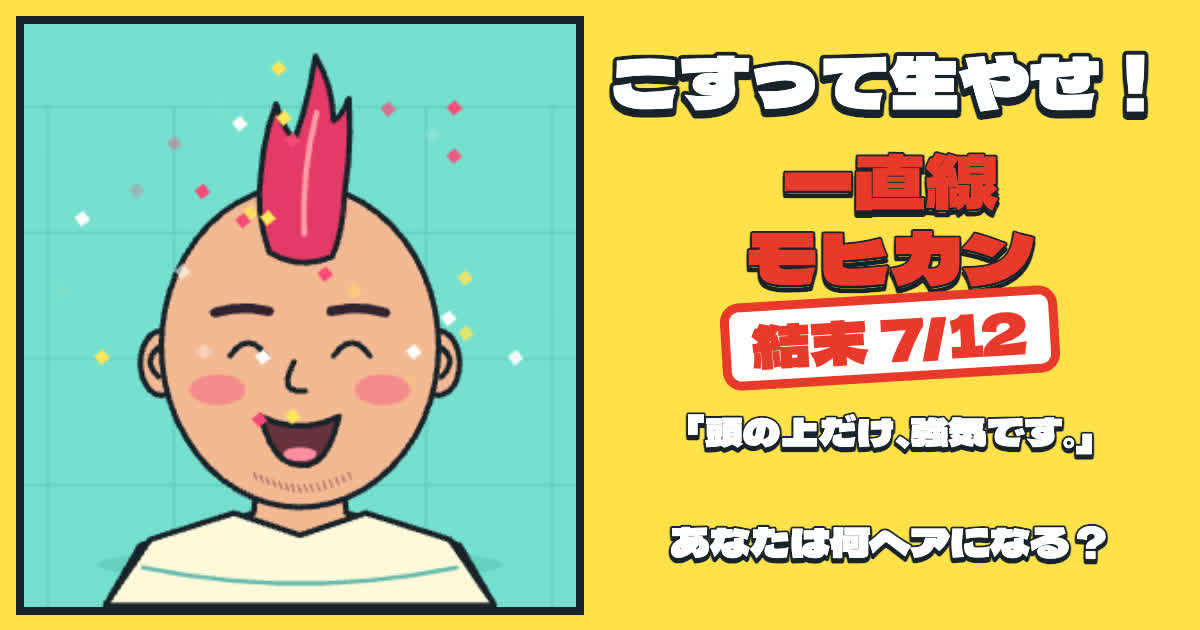
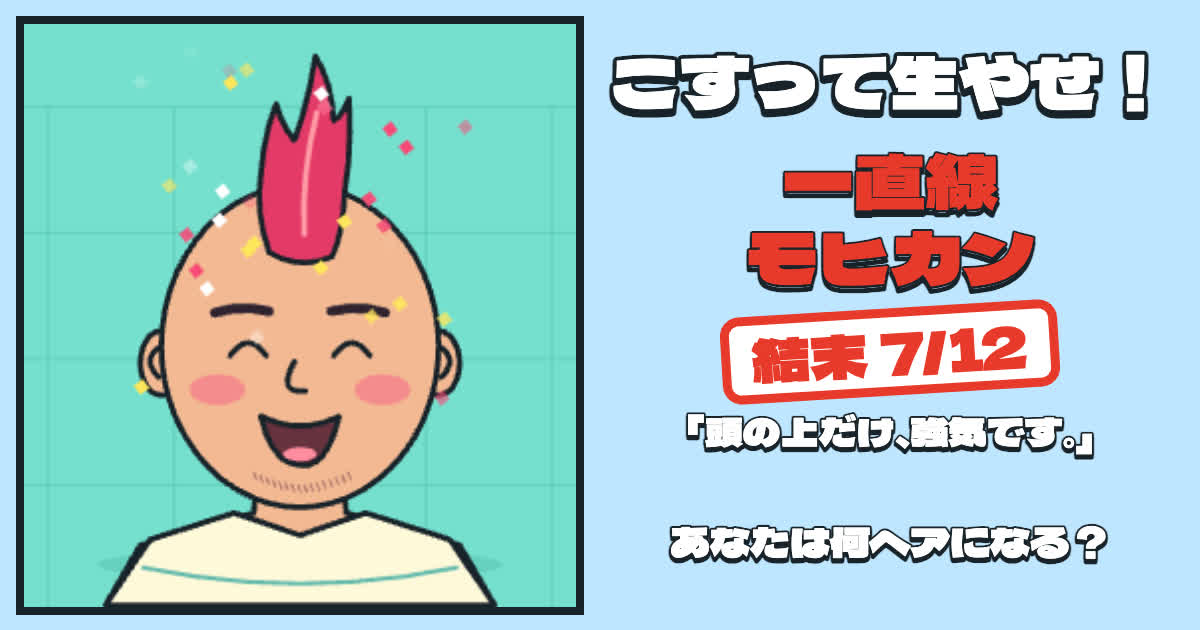
こすって生やせ！: hair count score, soap-blue cards, bubble under his chin, countdown on his forehead

diff --git a/mini-games/shampoo/index.html b/mini-games/shampoo/index.html
@@ -61,6 +61,8 @@ button:disabled{background:#354c4c;color:#fff;cursor:wait;box-shadow:none}
 #result .label{font-size:14px;font-weight:800;line-height:1.4;color:#54616b}
 #style-name{font-size:26px;color:var(--ink);margin:2px 0;-webkit-text-stroke:0;text-shadow:none;white-space:nowrap}
 #verdict{font-size:14px;font-weight:800;line-height:1.4;margin:0 0 4px}
+#count{font-family:"Dela Gothic One","Hiragino Sans",system-ui,sans-serif;font-size:30px;line-height:1.1;margin:0 0 2px;color:var(--pink)}
+#count small{display:block;font-family:"M PLUS Rounded 1c","Hiragino Sans",system-ui,sans-serif;font-weight:800;font-size:13px;color:#54616b;margin-top:2px}
 #collection{font-size:14px;font-weight:800;line-height:1.4;margin:0 0 4px}
 #style-hint{font-size:13px;font-weight:700;line-height:1.4;margin:4px 0 0;color:#54616b}
 .actions{display:flex;justify-content:center;gap:6px;margin-top:6px}
@@ -98,7 +100,7 @@ button:disabled{background:#354c4c;color:#fff;cursor:wait;box-shadow:none}
   <div id="dialogue">
   <div id="bubble" role="status" aria-live="polite"><svg id="bubble-outline" viewBox="0 0 360 56" preserveAspectRatio="none" aria-hidden="true"><path d="M20 0 H166 L180 -18 L194 0 H340 Q360 0 360 20 V36 Q360 56 340 56 H20 Q0 56 0 36 V20 Q0 0 20 0 Z" fill="#fff" stroke="#19222a" stroke-width="3" stroke-linejoin="round" vector-effect="non-scaling-stroke"/></svg><span id="bubble-text">薄井です。まだ、あきらめてません。</span></div>
   <section id="home"><div id="home-instructions"><p class="lead">10秒こすって、毛よ来い！</p><p class="sub">頭を押したままゴシゴシ。<br>こすり方で、まさかの髪型に！？</p></div><button id="go">シャンプーする</button><div class="credit">制作 <a href="https://lys-games.github.io/" target="_blank" rel="noopener">Lys Games</a> · <a class="steam" href="https://store.steampowered.com/app/5398160/?utm_source=lysgames&amp;utm_medium=web&amp;utm_campaign=shampoo" target="_blank" rel="noopener">『Gopher It』Steamで発売中</a></div><div class="voice-credit">音声 VOICEVOX:雀松朱司 / VOICEVOX:ナースロボ＿タイプＴ</div></section>
-  <section id="result" aria-label="シャンプーの結果" hidden><div class="label">本日の薄井さん</div><h2 id="style-name" class="t"></h2><p id="verdict"></p><p id="collection"></p><div class="actions"><button id="again">もう一回</button><a id="share" class="btn alt" target="_blank" rel="noopener">Xでポスト</a><button id="save" class="alt">画像を保存</button></div><p id="style-hint"></p><p id="tip" role="status"></p><div class="credit">制作 <a href="https://lys-games.github.io/" target="_blank" rel="noopener">Lys Games</a> · <a class="steam" href="https://store.steampowered.com/app/5398160/?utm_source=lysgames&amp;utm_medium=web&amp;utm_campaign=shampoo" target="_blank" rel="noopener">『Gopher It』Steamで発売中</a></div><div class="voice-credit">音声 VOICEVOX:雀松朱司 / VOICEVOX:ナースロボ＿タイプＴ</div></section>
+  <section id="result" aria-label="シャンプーの結果" hidden><div class="label">本日の薄井さん</div><h2 id="style-name" class="t"></h2><p id="count"><span id="count-n">0</span>本<small id="best"></small></p><p id="verdict"></p><p id="collection"></p><div class="actions"><button id="again">もう一回</button><a id="share" class="btn alt" target="_blank" rel="noopener">Xでポスト</a><button id="save" class="alt">画像を保存</button></div><p id="style-hint"></p><p id="tip" role="status"></p><div class="credit">制作 <a href="https://lys-games.github.io/" target="_blank" rel="noopener">Lys Games</a> · <a class="steam" href="https://store.steampowered.com/app/5398160/?utm_source=lysgames&amp;utm_medium=web&amp;utm_campaign=shampoo" target="_blank" rel="noopener">『Gopher It』Steamで発売中</a></div><div class="voice-credit">音声 VOICEVOX:雀松朱司 / VOICEVOX:ナースロボ＿タイプＴ</div></section>
   </div>
 </div>
 <div id="paused" hidden>ひと休み中</div>
@@ -229,6 +231,11 @@ let state='home', generation=0, deadline=0, hasStarted=false, pointer=null, hidd
 let stats, lather=[], foam=[], sparks=[], result=null, rinseAt=0, revealAt=0, lastFrame=0, rubAt=-1000, sfxAt=0, reactionAt=0, reactionIndex=0, idleStage=-1;
 let collection=new Set();
 try { collection=new Set(JSON.parse(localStorage.getItem('shampoo.collection')||'[]').filter(id=>styleById(id))); } catch (_) {}
+// A full head is about 100,000 hairs: the afro threshold (7,500 power) lands there.
+const HAIRS_PER_POWER=100000/7500;
+const hairCount=()=>Math.round((stats.distance+stats.chin)*HAIRS_PER_POWER);
+const fmtHairs=n=>n.toLocaleString('ja-JP');
+let best=null; try { const b=Number(localStorage.getItem('shampoo.best')); if(b>0)best=b; } catch (_) {}
 function resetStats() { stats={distance:0,chin:0,total:0,left:0,right:0,center:0,dx:0,dy:0,zones:0}; }
 resetStats(); resize(); addEventListener('resize',resize);
 const layoutObserver=new ResizeObserver(resize);
@@ -297,6 +304,11 @@ function updateMood(now) {
   if(stage!==idleStage) {idleStage=stage;if(stage>=0){const line=IDLE_LINES[stage];bubble(line.text);voice('man',line.id);}}
 }
 function liveMood(now) { return now-rubAt<800?(stats.total?'rub':'hope'):IDLE_LINES[Math.max(0,idleStage)].mood; }
+function countUp(n,g) {
+  const el=$('count-n'), t0=performance.now(), ms=REDUCED?0:900;
+  const tick=now=>{if(g!==generation)return;const k=ms?Math.min(1,(now-t0)/ms):1;el.textContent=fmtHairs(Math.round(n*(1-(1-k)**3)));if(k<1)requestAnimationFrame(tick);};
+  requestAnimationFrame(tick);
+}
 async function finish(forced) {
   if(state!=='play')return;
   const g=generation; state='stop'; pointer=null; result=forced||chooseStyle(); stopVoices();
@@ -317,11 +329,15 @@ async function finish(forced) {
   const isNew=!collection.has(result.id); if(!CARD_MODE){collection.add(result.id);try{localStorage.setItem('shampoo.collection',JSON.stringify([...collection]));}catch(_){}}
   $('collection').textContent=(isNew&&!CARD_MODE?'初めての結末！ ':'')+`発見 ${collection.size} / ${STYLES.length} 種`;
   $('style-hint').textContent=result.hint;
+  const hairs=CARD_MODE?0:hairCount(), newBest=!CARD_MODE&&hairs>0&&(best===null||hairs>best);
+  if(newBest){best=hairs;try{localStorage.setItem('shampoo.best',String(hairs));}catch(_){}}
+  $('best').textContent=newBest?'新記録！':best?`自己ベスト ${fmtHairs(best)}本`:'';
+  countUp(hairs,g);
   if(!CARD_MODE)show('result',true);
-  shareText=`薄井さん「${result.line}」\n10秒シャンプーしたら【${result.name}】\nあなたは何ヘア？ #こすって生やせ`;
+  shareText=`薄井さん「${result.line}」\n10秒シャンプーで${fmtHairs(hairs)}本生やした【${result.name}】\nあなたは何本？ #こすって生やせ`;
   $('share').href='https://x.com/intent/post?text='+encodeURIComponent(shareText)+'&url='+encodeURIComponent(URL_PUBLIC+'card/'+result.id+'.html');
   if(CARD_MODE){resize();draw(performance.now(),0);showPicture(await drawShareImage({style:result}));return;}
-  prepareShare({style:result},g);
+  prepareShare({style:result,hairs},g);
 }
 
 /* Each accepted segment is clipped to the head ellipse. Lifts and travel outside
@@ -557,12 +573,12 @@ function frame(now) {
 
 /* ---------- share picture ---------- */
 // The framed picture is a crop of the live scene, including his actual ending.
-async function drawShareImage({ style, card }) {
-  await document.fonts?.load(`60px ${DISPLAY_FONT}`, 'こすって生やせ！何ヘアになる？10秒で毛よ、来い！こするほど、生える。結末/「」0123456789' + STYLES.map(s=>s.name+s.line).join(''));
+async function drawShareImage({ style, card, hairs }) {
+  await document.fonts?.load(`60px ${DISPLAY_FONT}`, 'こすって生やせ！何ヘアになる？10秒で毛よ、来い！こするほど、生える。結末/「」0123456789,本あなたは何本生やせる？' + STYLES.map(s=>s.name+s.line).join(''));
   resize();draw(performance.now(),0);
   const c = document.createElement('canvas'); c.width = 1200; c.height = 675;
   const x = c.getContext('2d');
-  x.fillStyle = '#ffe14a'; x.fillRect(0, 0, 1200, 675);
+  x.fillStyle = '#bfe6ff'; x.fillRect(0, 0, 1200, 675);
   const FX = 20, FY = 42, FW = 560, FH = 591, y0 = 118, y1 = 540;
   const k = Math.max(FW / 400, FH / (y1 - y0)), sw = FW / k, sh = FH / k, sx = (400 - sw) / 2, sy = y0;
   x.drawImage(cv, (ox + sx * scale) * dpr, (oy + sy * scale) * dpr, sw * scale * dpr, sh * scale * dpr, FX, FY, FW, FH);
@@ -588,13 +604,13 @@ async function drawShareImage({ style, card }) {
     const names = {'beard':['もじゃもじゃ','ヒゲ'],'short':['さわやか','ショート'],'shichisan':['きっちり','七三'],'mohawk':['一直線','モヒカン'],'regent':['ど迫力','リーゼント'],'long':['さらさら','ロン毛'],'afro':['もこもこ','アフロ']};
     const lines=names[style.id]||[style.name];
     lines.forEach((line,i)=>text(line,890,lines.length===1?235:205+i*76,lines.length===1?90:72,'#e8392b'));
-    stamp(`結末 ${STYLES.indexOf(style)+1}/${STYLES.length}`, 890, 360, 58);
+    stamp(hairs===undefined?`結末 ${STYLES.indexOf(style)+1}/${STYLES.length}`:`${fmtHairs(hairs)}本`, 890, lines.length===1?360:374, 58);
     // Split long dialogue into two legible lines without reducing the font.
     const quote='「'+style.line+'」', chars=Array.from(quote);
     x.font=`38px ${DISPLAY_FONT}`;
     if(x.measureText(quote).width>560){const mid=Math.ceil(chars.length/2);text(chars.slice(0,mid).join(''),890,444,38,'#fff');text(chars.slice(mid).join(''),890,492,38,'#fff');}
     else text(quote,890,455,38,'#fff');
-    text('あなたは何ヘアになる？', 890, 565, 40, '#fff');
+    text(hairs===undefined?'あなたは何ヘアになる？':'あなたは何本生やせる？', 890, 565, 40, '#fff');
   }
   return new Promise(res => c.toBlob(res, 'image/png'));
 }
